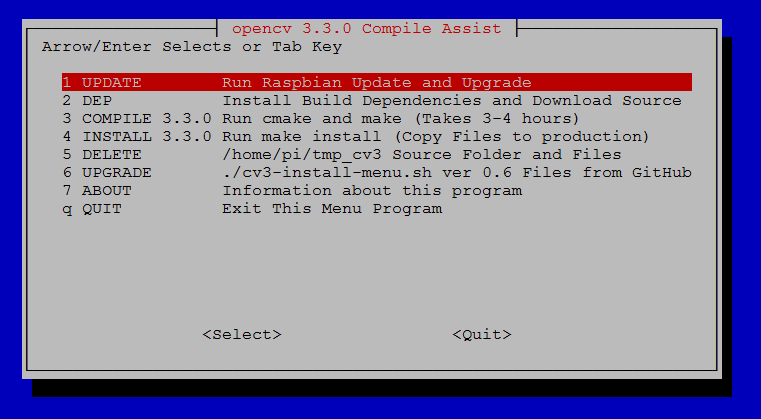
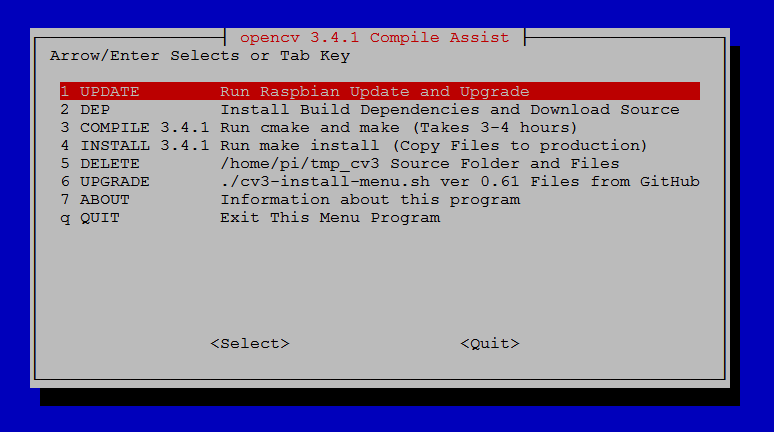
Release 1.0  Updated default opencv build to 3.4.1 after testing

Changed region(s): [[0.0302, 0.031, 0.9671, 0.9618], [0.5742, 0.7757, 0.6649, 0.8377], [0.272, 0.7757, 0.3929, 0.8067]]

diff --git a/Readme.md b/Readme.md
@@ -41,6 +41,8 @@ must be done manually using nano.
 * Patience since this will take a few hours
 * Working RPI connected to Internet
 * RPI with 1GB of memory with a single CPU core or better
+* It is suggested you temporarily disable the desktop and run
+in terminal mode to save some RAM memory.
 * Recent Jessie or Stretch Raspbian Release
 * Recommended min 16GB SD card with at least 6 GB Free.
 If Free disk space is low or You have a smaller system SD.
@@ -76,7 +78,13 @@ The ***cv3-install.menu.sh*** script and menu picks will
 For a Full Build on a New OS
 It is recommended you have a minimum 16GB SD card with at least 6GB free.
 Less space may be needed depending on what dependencies are already
-installed. RPI needs 1GB or RAM memory
+installed. You can recover most of the disk space after the build
+by running the DELETE menu pick.
+
+RPI needs 1GB or RAM memory and it is suggested you temporarily
+disable the desktop and run in terminal mode.  This can be done using
+
+sudo raspi-config
 
 You can change the opencv install location by editing
 the cv3-install-menu.sh using nano and changing the
